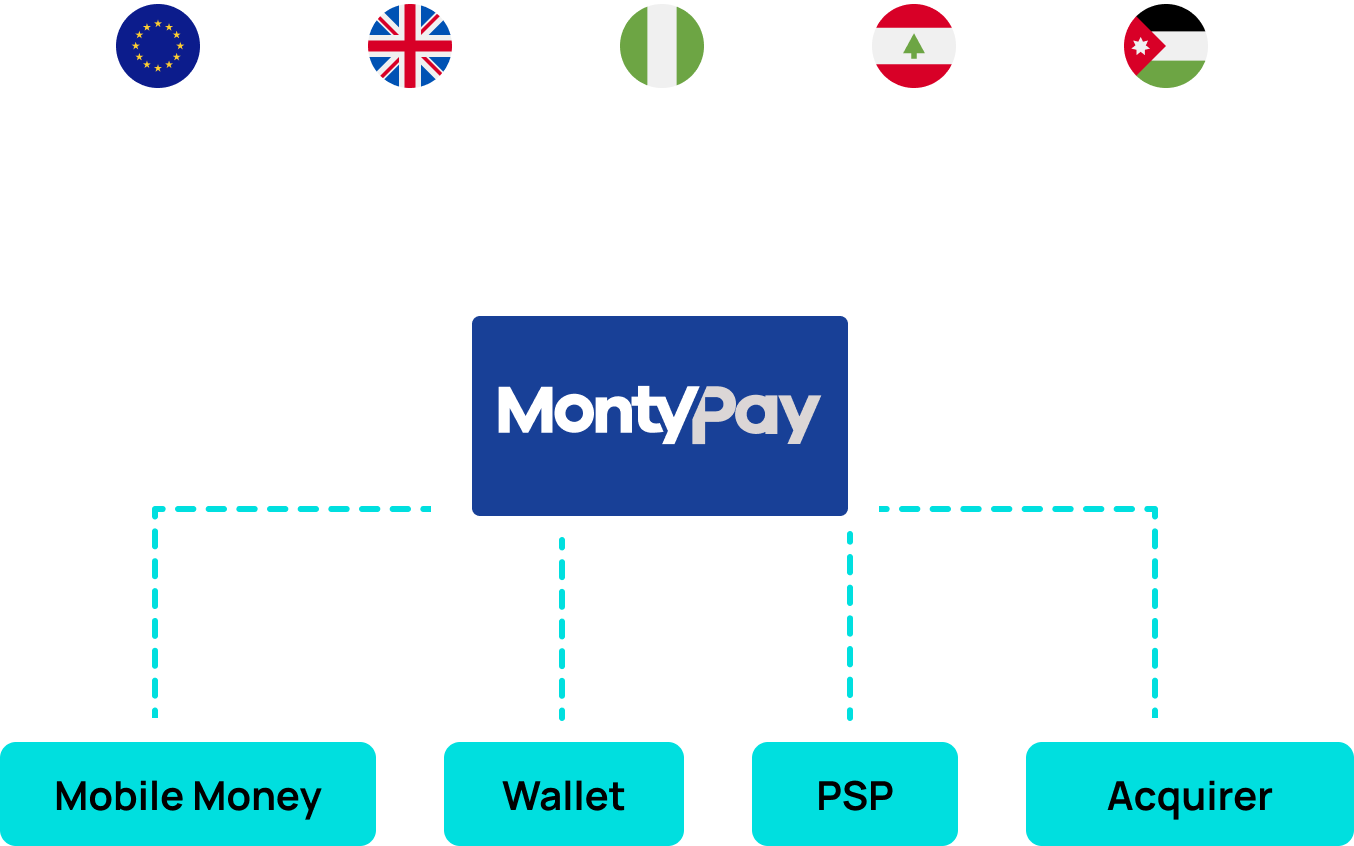
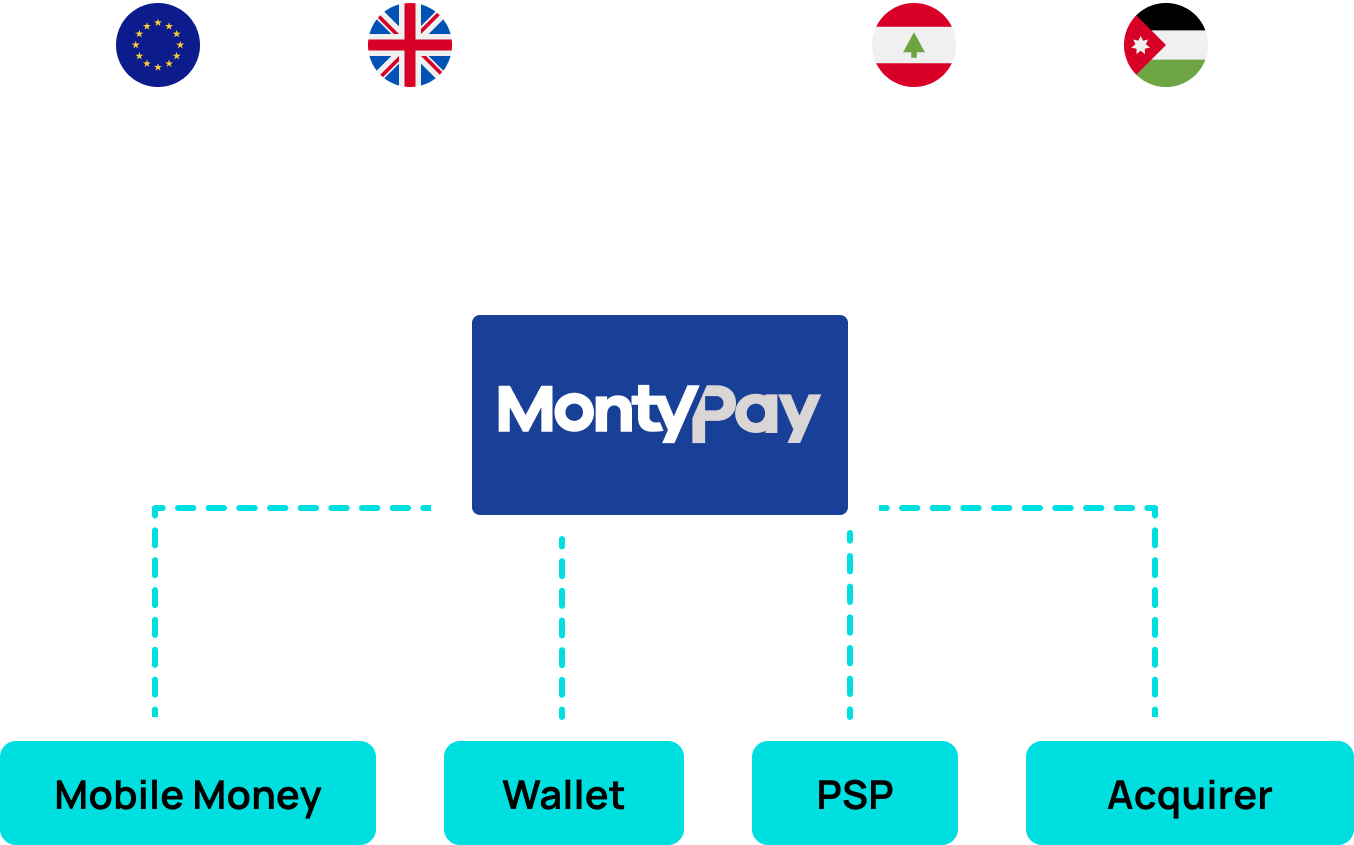
.

diff --git a/pages/global-coverage/index.vue b/pages/global-coverage/index.vue
@@ -236,32 +236,32 @@
                 }
             ]
         },
-        {
-            country:t('Pages.Global Coverage.Section 2.Nigeria'),
-            categories: [
-                {
-                    title: t('Pages.Global Coverage.Section 2.Cards'),
-                    items: [
-                        { "name": "Mastercard", "img": "/images/mastercard.svg" },
-                        { "name": "Visa", "img": "/images/visa.svg" },
-                        { "name": "Verve", "img": "/images/verve.svg" }
-                    ]
-                },
-                {
-                    title: t('Pages.Global Coverage.Section 2.Digital Wallets'),
-                    items: [
-                        { "name": "PayPal", "img": "/images/paypal.svg" }
-                    ]
-                },
-                {
-                    title: t('Pages.Global Coverage.Section 2.Other'),
-                    items: [
-                        { "name": "Bank Transfers", "img": "/images/bank-transfers.svg" },
-                        { "name": "Cryptocurrency", "img": "/images/crypto.svg" }
-                    ]
-                }
-            ]
-        },
+        // {
+        //     country:t('Pages.Global Coverage.Section 2.Nigeria'),
+        //     categories: [
+        //         {
+        //             title: t('Pages.Global Coverage.Section 2.Cards'),
+        //             items: [
+        //                 { "name": "Mastercard", "img": "/images/mastercard.svg" },
+        //                 { "name": "Visa", "img": "/images/visa.svg" },
+        //                 { "name": "Verve", "img": "/images/verve.svg" }
+        //             ]
+        //         },
+        //         {
+        //             title: t('Pages.Global Coverage.Section 2.Digital Wallets'),
+        //             items: [
+        //                 { "name": "PayPal", "img": "/images/paypal.svg" }
+        //             ]
+        //         },
+        //         {
+        //             title: t('Pages.Global Coverage.Section 2.Other'),
+        //             items: [
+        //                 { "name": "Bank Transfers", "img": "/images/bank-transfers.svg" },
+        //                 { "name": "Cryptocurrency", "img": "/images/crypto.svg" }
+        //             ]
+        //         }
+        //     ]
+        // },
         {
             country:t('Pages.Global Coverage.Section 2.Oman'),
             categories: [
@@ -400,94 +400,94 @@
                 }
             ]
         },
-        {
-            country: t('Pages.Global Coverage.Section 2.Indonesia'),
-            categories: [
-                {
-                    title: t('Pages.Global Coverage.Section 2.Cards'),
-                    items: [
-                        { "name": "", "img": "/images/mastercard.svg" },
-                        { "name": "", "img": "/images/visa.svg" },
-                        { "name": "T&Cs apply", "img": "/images/amex.svg" },
-                        { "name": "", "img": "/images/jcb.svg" },
-                    ]
-                },
-                {
-                    title: t('Pages.Global Coverage.Section 2.eWallet'),
-                    items: [
-                        { "name": "", "img": "/gopay-2.webp" },
-                        { "name": "", "img": "/images/doku.svg" },
-                        { "name": "", "img": "/images/linkaja.svg" },
-                        { "name": "", "img": "/images/shopeepay.svg" },
-                        { "name": "", "img": "/images/ovo.svg" },
-                        { "name": "", "img": "/images/dana.svg" },
-                    ]
-                },
-                // {
-                //     title: t('Pages.Global Coverage.Section 2.Cash'),
-                //     items: [
-                //         { "name": "", "img": "/images/alfa-mart.svg" },
-                //         { "name": "", "img": "/images/indomaret.svg" },
-                //         { "name": "", "img": "/images/alfa-midi.svg" },
-                //         { "name": "", "img": "/images/lawson.svg" },
-                //         { "name": "", "img": "/images/dandan.svg" },
-                //     ]
-                // },
-                {
-                    title: t('Pages.Global Coverage.Section 2.Virtual Account'),
-                    items: [
-                        { "name": "", "img": "/images/bca.svg" },
-                        { "name": "", "img": "/images/mandiri.svg" },
-                        { "name": "", "img": "/maybank.webp" },
-                        { "name": "", "img": "/btn-2.webp" },
-                        { "name": "", "img": "/alto.webp" },
-                        { "name": "", "img": "/bersama.webp" },
-                        { "name": "", "img": "/prima.webp" },
-                        // { "name": "", "img": "/images/bank-bri.svg" },
-                        { "name": "", "img": "/images/bni.svg" },
-                        // { "name": "", "img": "/images/doku.svg" },
-                        { "name": "", "img": "/images/permata-bank.svg" },
-                        // { "name": "", "img": "/images/bnc.svg" },
-                        { "name": "", "img": "/images/danamon.svg" },
-                        // { "name": "", "img": "/images/bsi.svg" },
-                        { "name": "", "img": "/images/cimb-niaga.svg" },
-                    ]
-                },
-                {
-                    title: t('Pages.Global Coverage.Section 2.Direct Debit'),
-                    items: [
-                        { "name": "", "img": "/images/bri.svg" },
-                        { "name": "", "img": "/images/allo-bank.svg" },
-                        { "name": "", "img": "/images/mandiri.svg" },
-                        { "name": "", "img": "/images/octo-cash.svg" },
-                    ]
-                },
-                {
-                    title: t('Pages.Global Coverage.Section 2.WebPay Providers'),
-                    items: [
-                        { "name": "", "img": "/images/kredivo.svg" },
-                        { "name": "", "img": "/images/akulaku.svg" },
-                    ]
-                },
-                {
-                    title: t('Pages.Global Coverage.Section 2.QR Code Payments'),
-                    items: [
-                        { "name": "", "img": "/images/qris.svg" },
-                    ]
-                },
-                {
-                    title: t('Pages.Global Coverage.Section 2.Pay Later (BNPL)'),
-                    items: [
-                        { "name": "", "img": "/images/bca.svg" },
-                        { "name": "", "img": "/images/mandiri.svg" },
-                        { "name": "", "img": "/images/permata-bank.svg" },
-                        { "name": "", "img": "/images/bri.svg" },
-                        { "name": "", "img": "/images/cimb-niaga.svg" },
-                        { "name": "", "img": "/ocbc-2.webp" },
-                    ]
-                },
-            ]
-        },
+        // {
+        //     country: t('Pages.Global Coverage.Section 2.Indonesia'),
+        //     categories: [
+        //         {
+        //             title: t('Pages.Global Coverage.Section 2.Cards'),
+        //             items: [
+        //                 { "name": "", "img": "/images/mastercard.svg" },
+        //                 { "name": "", "img": "/images/visa.svg" },
+        //                 { "name": "T&Cs apply", "img": "/images/amex.svg" },
+        //                 { "name": "", "img": "/images/jcb.svg" },
+        //             ]
+        //         },
+        //         {
+        //             title: t('Pages.Global Coverage.Section 2.eWallet'),
+        //             items: [
+        //                 { "name": "", "img": "/gopay-2.webp" },
+        //                 { "name": "", "img": "/images/doku.svg" },
+        //                 { "name": "", "img": "/images/linkaja.svg" },
+        //                 { "name": "", "img": "/images/shopeepay.svg" },
+        //                 { "name": "", "img": "/images/ovo.svg" },
+        //                 { "name": "", "img": "/images/dana.svg" },
+        //             ]
+        //         },
+        //         // {
+        //         //     title: t('Pages.Global Coverage.Section 2.Cash'),
+        //         //     items: [
+        //         //         { "name": "", "img": "/images/alfa-mart.svg" },
+        //         //         { "name": "", "img": "/images/indomaret.svg" },
+        //         //         { "name": "", "img": "/images/alfa-midi.svg" },
+        //         //         { "name": "", "img": "/images/lawson.svg" },
+        //         //         { "name": "", "img": "/images/dandan.svg" },
+        //         //     ]
+        //         // },
+        //         {
+        //             title: t('Pages.Global Coverage.Section 2.Virtual Account'),
+        //             items: [
+        //                 { "name": "", "img": "/images/bca.svg" },
+        //                 { "name": "", "img": "/images/mandiri.svg" },
+        //                 { "name": "", "img": "/maybank.webp" },
+        //                 { "name": "", "img": "/btn-2.webp" },
+        //                 { "name": "", "img": "/alto.webp" },
+        //                 { "name": "", "img": "/bersama.webp" },
+        //                 { "name": "", "img": "/prima.webp" },
+        //                 // { "name": "", "img": "/images/bank-bri.svg" },
+        //                 { "name": "", "img": "/images/bni.svg" },
+        //                 // { "name": "", "img": "/images/doku.svg" },
+        //                 { "name": "", "img": "/images/permata-bank.svg" },
+        //                 // { "name": "", "img": "/images/bnc.svg" },
+        //                 { "name": "", "img": "/images/danamon.svg" },
+        //                 // { "name": "", "img": "/images/bsi.svg" },
+        //                 { "name": "", "img": "/images/cimb-niaga.svg" },
+        //             ]
+        //         },
+        //         {
+        //             title: t('Pages.Global Coverage.Section 2.Direct Debit'),
+        //             items: [
+        //                 { "name": "", "img": "/images/bri.svg" },
+        //                 { "name": "", "img": "/images/allo-bank.svg" },
+        //                 { "name": "", "img": "/images/mandiri.svg" },
+        //                 { "name": "", "img": "/images/octo-cash.svg" },
+        //             ]
+        //         },
+        //         {
+        //             title: t('Pages.Global Coverage.Section 2.WebPay Providers'),
+        //             items: [
+        //                 { "name": "", "img": "/images/kredivo.svg" },
+        //                 { "name": "", "img": "/images/akulaku.svg" },
+        //             ]
+        //         },
+        //         {
+        //             title: t('Pages.Global Coverage.Section 2.QR Code Payments'),
+        //             items: [
+        //                 { "name": "", "img": "/images/qris.svg" },
+        //             ]
+        //         },
+        //         {
+        //             title: t('Pages.Global Coverage.Section 2.Pay Later (BNPL)'),
+        //             items: [
+        //                 { "name": "", "img": "/images/bca.svg" },
+        //                 { "name": "", "img": "/images/mandiri.svg" },
+        //                 { "name": "", "img": "/images/permata-bank.svg" },
+        //                 { "name": "", "img": "/images/bri.svg" },
+        //                 { "name": "", "img": "/images/cimb-niaga.svg" },
+        //                 { "name": "", "img": "/ocbc-2.webp" },
+        //             ]
+        //         },
+        //     ]
+        // },
         {
             country: t('Pages.Global Coverage.Section 2.LATAM'),
             categories: [

diff --git a/pages/contact-us/index.vue b/pages/contact-us/index.vue
@@ -198,7 +198,7 @@
                                 </div>
                             </div>
                         </div>
-                        <div>
+                        <!-- <div>
                             <NuxtPicture 
                                 priority
                                 format="webp" 
@@ -223,7 +223,7 @@
                                     </div>
                                 </div>
                             </div>
-                        </div>
+                        </div> -->
                         <div>
                             <NuxtPicture 
                                 priority
@@ -302,7 +302,7 @@
                                 </div>
                             </div>
                         </div>
-                        <div>
+                        <!-- <div>
                             <NuxtPicture 
                                 priority
                                 format="webp" 
@@ -327,7 +327,7 @@
                                     </div>
                                 </div>
                             </div>
-                        </div>
+                        </div> -->
                         <div>
                             <NuxtPicture 
                                 priority

diff --git a/components/Map.vue b/components/Map.vue
@@ -68,20 +68,20 @@
             top: '46',
             left: '63.2',
         },
-        {
-            icon: 'ID',
-            location: t('Map.Items[4].Location'),
-            address: t('Map.Items[4].Address'),
-            top: '62',
-            left: '77',
-        },
-        {
-            icon: 'NG',
-            location: t('Map.Items[5].Location'),
-            address: t('Map.Items[5].Address'),
-            top: '54.9',
-            left: '49.8',
-        },
+        // {
+        //     icon: 'ID',
+        //     location: t('Map.Items[4].Location'),
+        //     address: t('Map.Items[4].Address'),
+        //     top: '62',
+        //     left: '77',
+        // },
+        // {
+        //     icon: 'NG',
+        //     location: t('Map.Items[5].Location'),
+        //     address: t('Map.Items[5].Address'),
+        //     top: '54.9',
+        //     left: '49.8',
+        // },
         {
             icon: 'SA',
             location: t('Map.Items[6].Location'),
